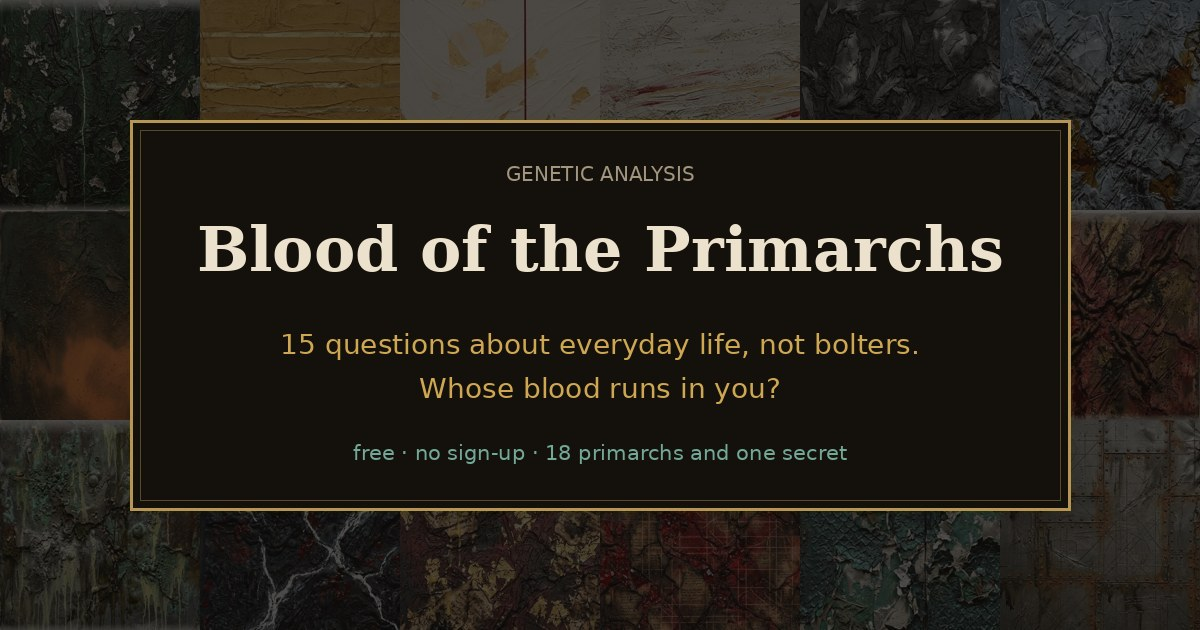
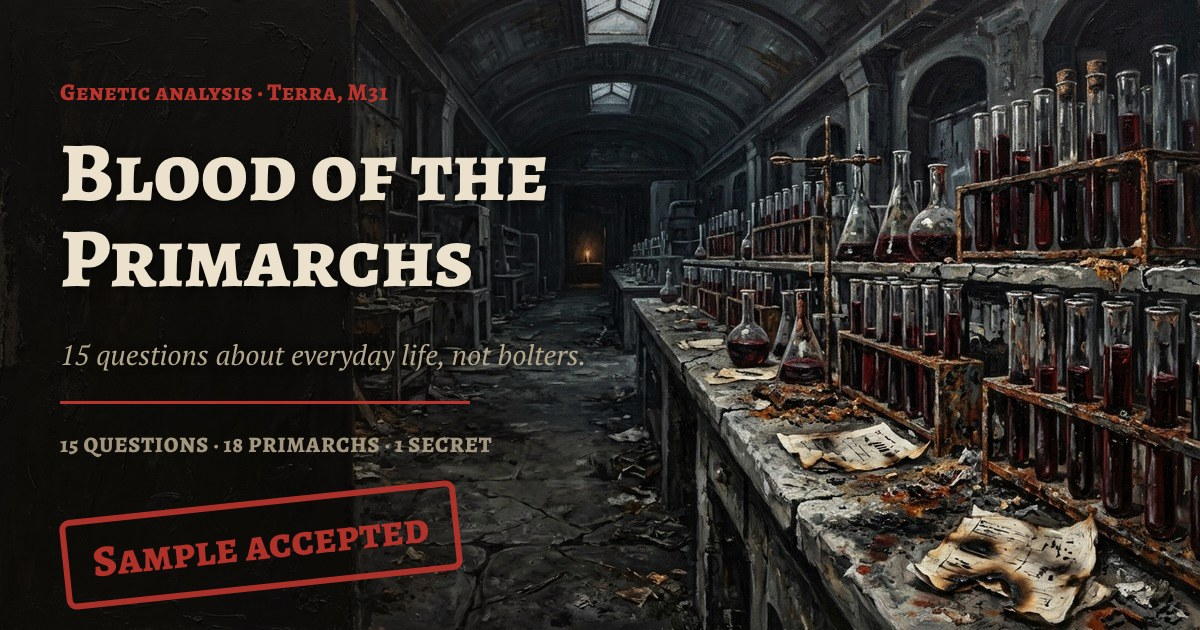
Обложка и общий фон на старте теста, новые превью-картинки (ru/en)
Claude-Session: https://claude.ai/code/session_01WczVTUkWxyzo2PmWQ5Qi3r

diff --git a/index.html b/index.html
@@ -43,8 +43,8 @@
 html{background:var(--ink)}
 body{margin:0;background:var(--ink);color:var(--bone);font-family:var(--f-body);font-size:var(--s0);line-height:1.55;
   padding-left:max(16px,env(safe-area-inset-left,0px));padding-right:max(16px,env(safe-area-inset-right,0px));
-  background-image:radial-gradient(120% 70% at 50% -10%,#2a2117 0%,transparent 60%),radial-gradient(90% 60% at 50% 110%,#1c1712 0%,transparent 70%);
-  background-attachment:fixed;min-height:100%}
+  background:linear-gradient(rgba(10,9,7,.8),rgba(10,9,7,.92)),url("bg.jpg") center/cover fixed,var(--ink);
+  min-height:100%}
 [hidden]{display:none!important}
 img{max-width:100%}
 button{font:inherit;color:inherit}
@@ -54,8 +54,14 @@ button{font:inherit;color:inherit}
 .mono{font-family:var(--f-mono);font-variant-numeric:tabular-nums}
 
 /* ---------- Вступление ---------- */
-.hero{position:relative;padding-block:24px 8px}
-.hero canvas{position:absolute;left:0;right:0;top:54px;width:100%;height:150px;opacity:.55;pointer-events:none}
+.hero{position:relative;padding-block:0 8px}
+/* Обложка и фон (как во втором тесте серии) */
+.cover{position:relative;margin:0 calc(-1*max(16px,env(safe-area-inset-left,0px))) 18px;aspect-ratio:1200/630;background:url("cover.jpg") 68% center/cover;
+  -webkit-mask-image:linear-gradient(to bottom,#000 55%,transparent);mask-image:linear-gradient(to bottom,#000 55%,transparent)}
+@media (min-width:712px){.cover{margin-inline:0;border:1px solid var(--rule)}}
+.tb{position:relative}
+
+.hero canvas{position:absolute;left:0;right:0;top:30px;width:100%;height:150px;opacity:.55;pointer-events:none}
 .hero h1{position:relative;font-family:var(--f-display);font-weight:700;font-size:clamp(52px,12vw,104px);line-height:.92;letter-spacing:.01em;margin:18px 0 22px;text-wrap:balance;color:var(--bone)}
 .hero h1 span{display:block;color:var(--gilt)}
 .lead{position:relative;font-size:var(--s1);max-width:34em;margin:0 0 26px;color:var(--bone)}
@@ -271,9 +277,12 @@ html{overflow-x:clip}
 
 <!-- ВСТУПЛЕНИЕ -->
 <section id="intro" class="hero" aria-labelledby="t">
+  <div class="cover" role="img" aria-label="Лаборатория с образцами крови на Терре"></div>
+  <div class="tb">
   <canvas id="helixHero" aria-hidden="true"></canvas>
   <div class="eyebrow">Генетический анализ · Терра, М31</div>
   <h1 id="t">Кровь <span>примархов</span></h1>
+  </div>
   <p class="lead">Император создал двадцать сыновей, и каждому досталась часть его характера. Ответь на вопросы о самой обычной жизни: друзьях, доме, ссорах и выходных. Анализ покажет, чья кровь течёт в тебе.</p>
   <div class="facts">
     <div><b>15</b><span>вопросов за раз</span></div>

diff --git a/en/index.html b/en/index.html
@@ -43,8 +43,8 @@
 html{background:var(--ink)}
 body{margin:0;background:var(--ink);color:var(--bone);font-family:var(--f-body);font-size:var(--s0);line-height:1.55;
   padding-left:max(16px,env(safe-area-inset-left,0px));padding-right:max(16px,env(safe-area-inset-right,0px));
-  background-image:radial-gradient(120% 70% at 50% -10%,#2a2117 0%,transparent 60%),radial-gradient(90% 60% at 50% 110%,#1c1712 0%,transparent 70%);
-  background-attachment:fixed;min-height:100%}
+  background:linear-gradient(rgba(10,9,7,.8),rgba(10,9,7,.92)),url("../bg.jpg") center/cover fixed,var(--ink);
+  min-height:100%}
 [hidden]{display:none!important}
 img{max-width:100%}
 button{font:inherit;color:inherit}
@@ -54,8 +54,14 @@ button{font:inherit;color:inherit}
 .mono{font-family:var(--f-mono);font-variant-numeric:tabular-nums}
 
 /* ---------- Вступление ---------- */
-.hero{position:relative;padding-block:24px 8px}
-.hero canvas{position:absolute;left:0;right:0;top:54px;width:100%;height:150px;opacity:.55;pointer-events:none}
+.hero{position:relative;padding-block:0 8px}
+/* Обложка и фон (как во втором тесте серии) */
+.cover{position:relative;margin:0 calc(-1*max(16px,env(safe-area-inset-left,0px))) 18px;aspect-ratio:1200/630;background:url("../cover.jpg") 68% center/cover;
+  -webkit-mask-image:linear-gradient(to bottom,#000 55%,transparent);mask-image:linear-gradient(to bottom,#000 55%,transparent)}
+@media (min-width:712px){.cover{margin-inline:0;border:1px solid var(--rule)}}
+.tb{position:relative}
+
+.hero canvas{position:absolute;left:0;right:0;top:30px;width:100%;height:150px;opacity:.55;pointer-events:none}
 .hero h1{position:relative;font-family:var(--f-display);font-weight:700;font-size:clamp(52px,12vw,104px);line-height:.92;letter-spacing:.01em;margin:18px 0 22px;text-wrap:balance;color:var(--bone)}
 .hero h1 span{display:block;color:var(--gilt)}
 .lead{position:relative;font-size:var(--s1);max-width:34em;margin:0 0 26px;color:var(--bone)}
@@ -271,9 +277,12 @@ html{overflow-x:clip}
 
 <!-- ВСТУПЛЕНИЕ -->
 <section id="intro" class="hero" aria-labelledby="t">
+  <div class="cover" role="img" aria-label="A ruined laboratory with blood samples on Terra"></div>
+  <div class="tb">
   <canvas id="helixHero" aria-hidden="true"></canvas>
   <div class="eyebrow">Genetic analysis · Terra, M31</div>
   <h1 id="t">Blood of the <span>Primarchs</span></h1>
+  </div>
   <p class="lead">The Emperor created twenty sons, and each inherited a part of His nature. Answer questions about perfectly ordinary life: friends, home, arguments and weekends. The analysis will reveal whose blood runs in you.</p>
   <div class="facts">
     <div><b>15</b><span>questions per run</span></div>
